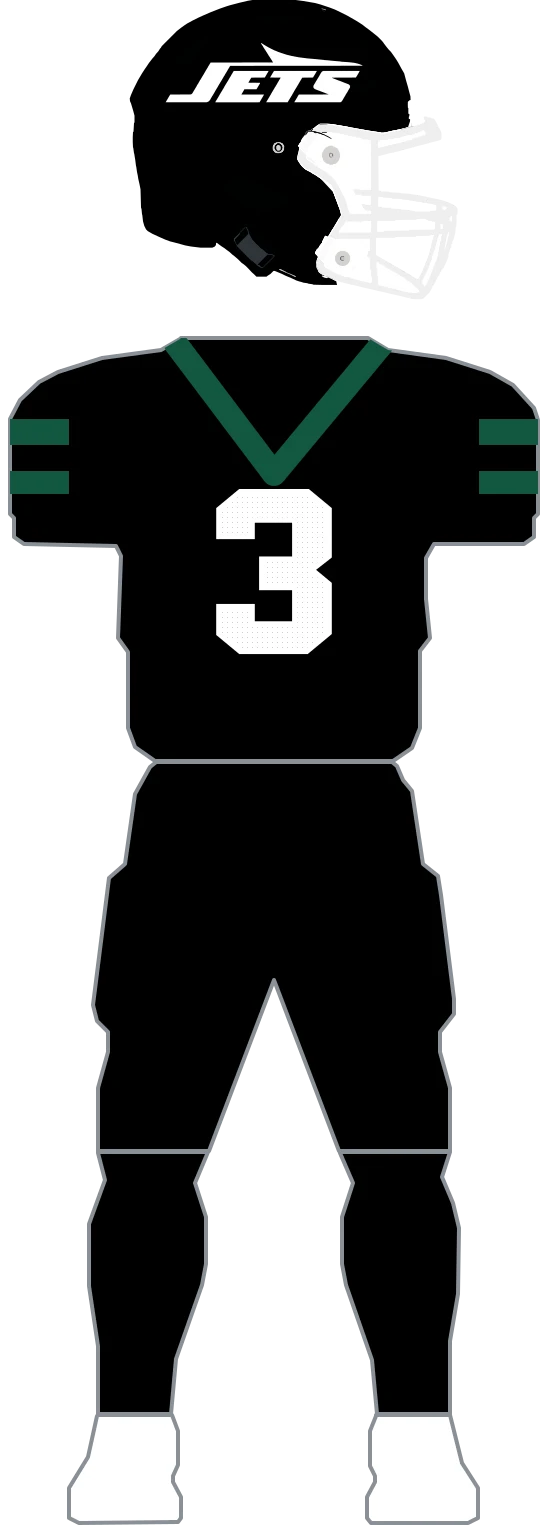
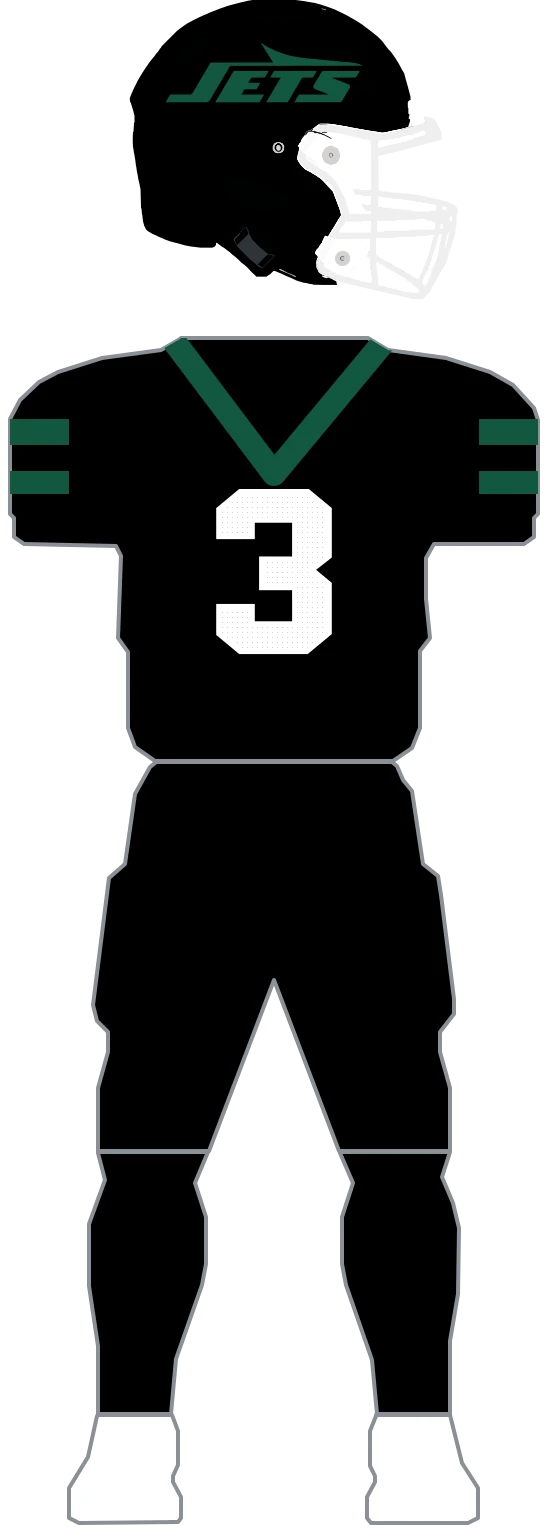
fix(uniforms): use green Jets wordmark on black helmet

Changed region(s): [[0.3036, 0.0306, 0.6375, 0.0919]]

diff --git a/lib/uniforms/teams/jets.parts.ts b/lib/uniforms/teams/jets.parts.ts
@@ -64,7 +64,7 @@ function collar(color: string): PartLayer[] {
 }
 
 // The white wordmark — pinned, everywhere.
-function wordmark(): PartLayer[] {
+function wordmark(color: string): PartLayer[] {
   return [
     {
       id: 'jets-decal',
@@ -72,19 +72,23 @@ function wordmark(): PartLayer[] {
       d: JETS_DECAL_PATH,
       clip: true,
       kind: 'fill',
-      fill: 'white',
+      fill: color,
     },
   ];
 }
 
 // Home/away's green shell (H1) — #125740, the current green.
-const HELMET_GREEN: UniformPart = { base: 'green', facemask: 'white', layers: wordmark() };
+const HELMET_GREEN: UniformPart = { base: 'green', facemask: 'white', layers: wordmark('white') };
 
 // Rivalries' green shell (H2) — #115740, a distinct step.
-const HELMET_RIV_GREEN: UniformPart = { base: 'rivalGreen', facemask: 'white', layers: wordmark() };
+const HELMET_RIV_GREEN: UniformPart = {
+  base: 'rivalGreen',
+  facemask: 'white',
+  layers: wordmark('white'),
+};
 
 // Black-alt shell (H3).
-const HELMET_BLACK: UniformPart = { base: 'black', facemask: 'white', layers: wordmark() };
+const HELMET_BLACK: UniformPart = { base: 'black', facemask: 'white', layers: wordmark('green') };
 
 // Home jersey (J1): green body, white bands + collar, white numerals.
 const JERSEY_GREEN: UniformPart = {
